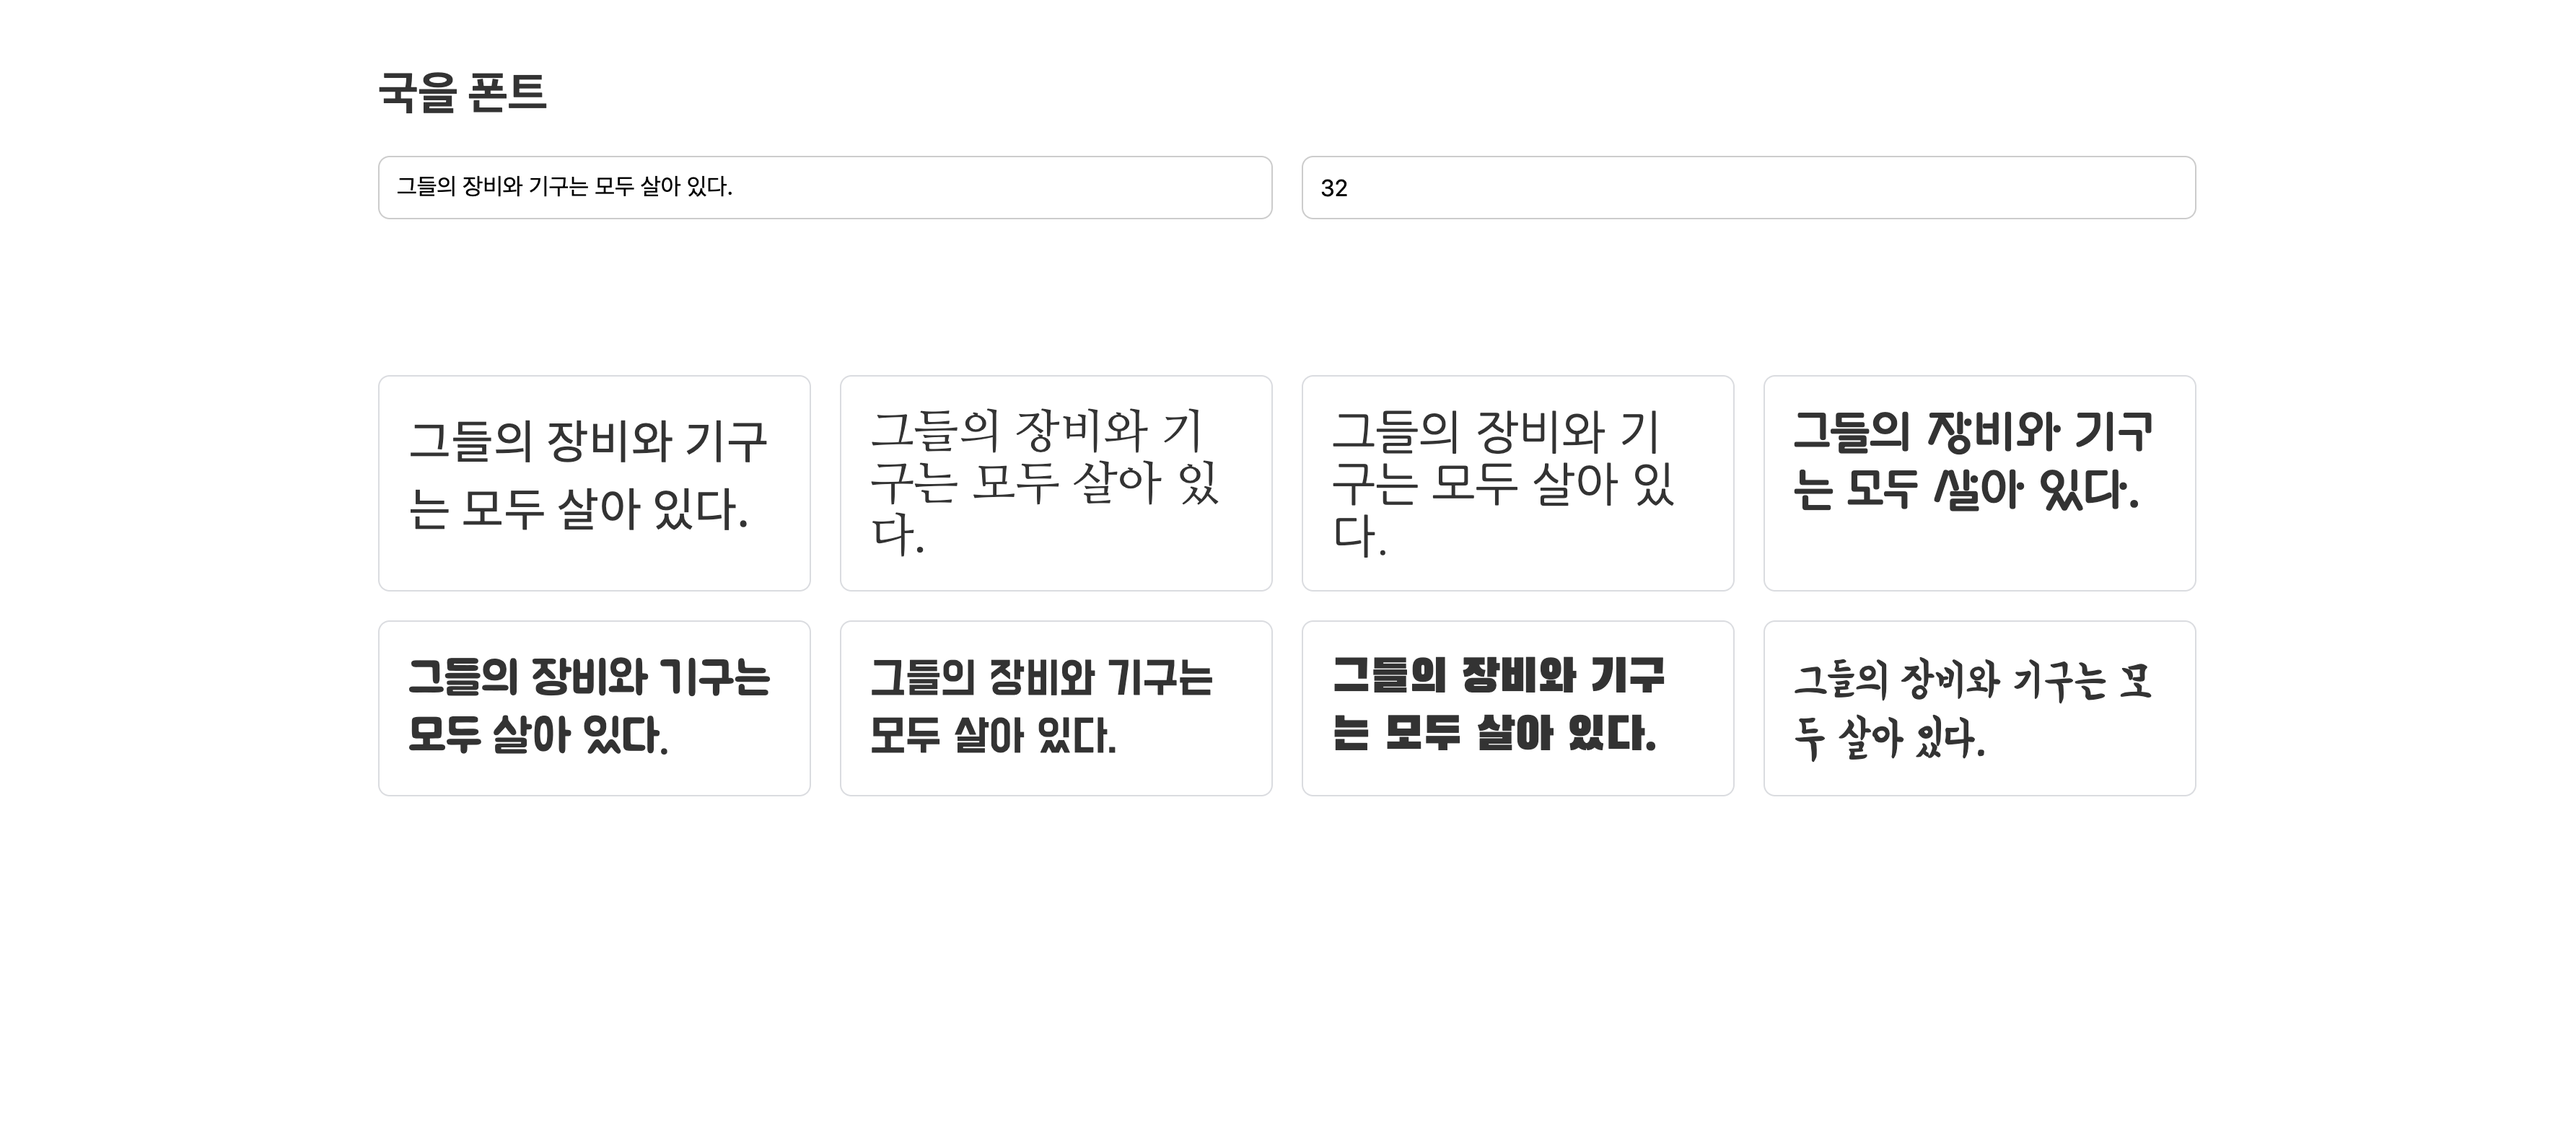
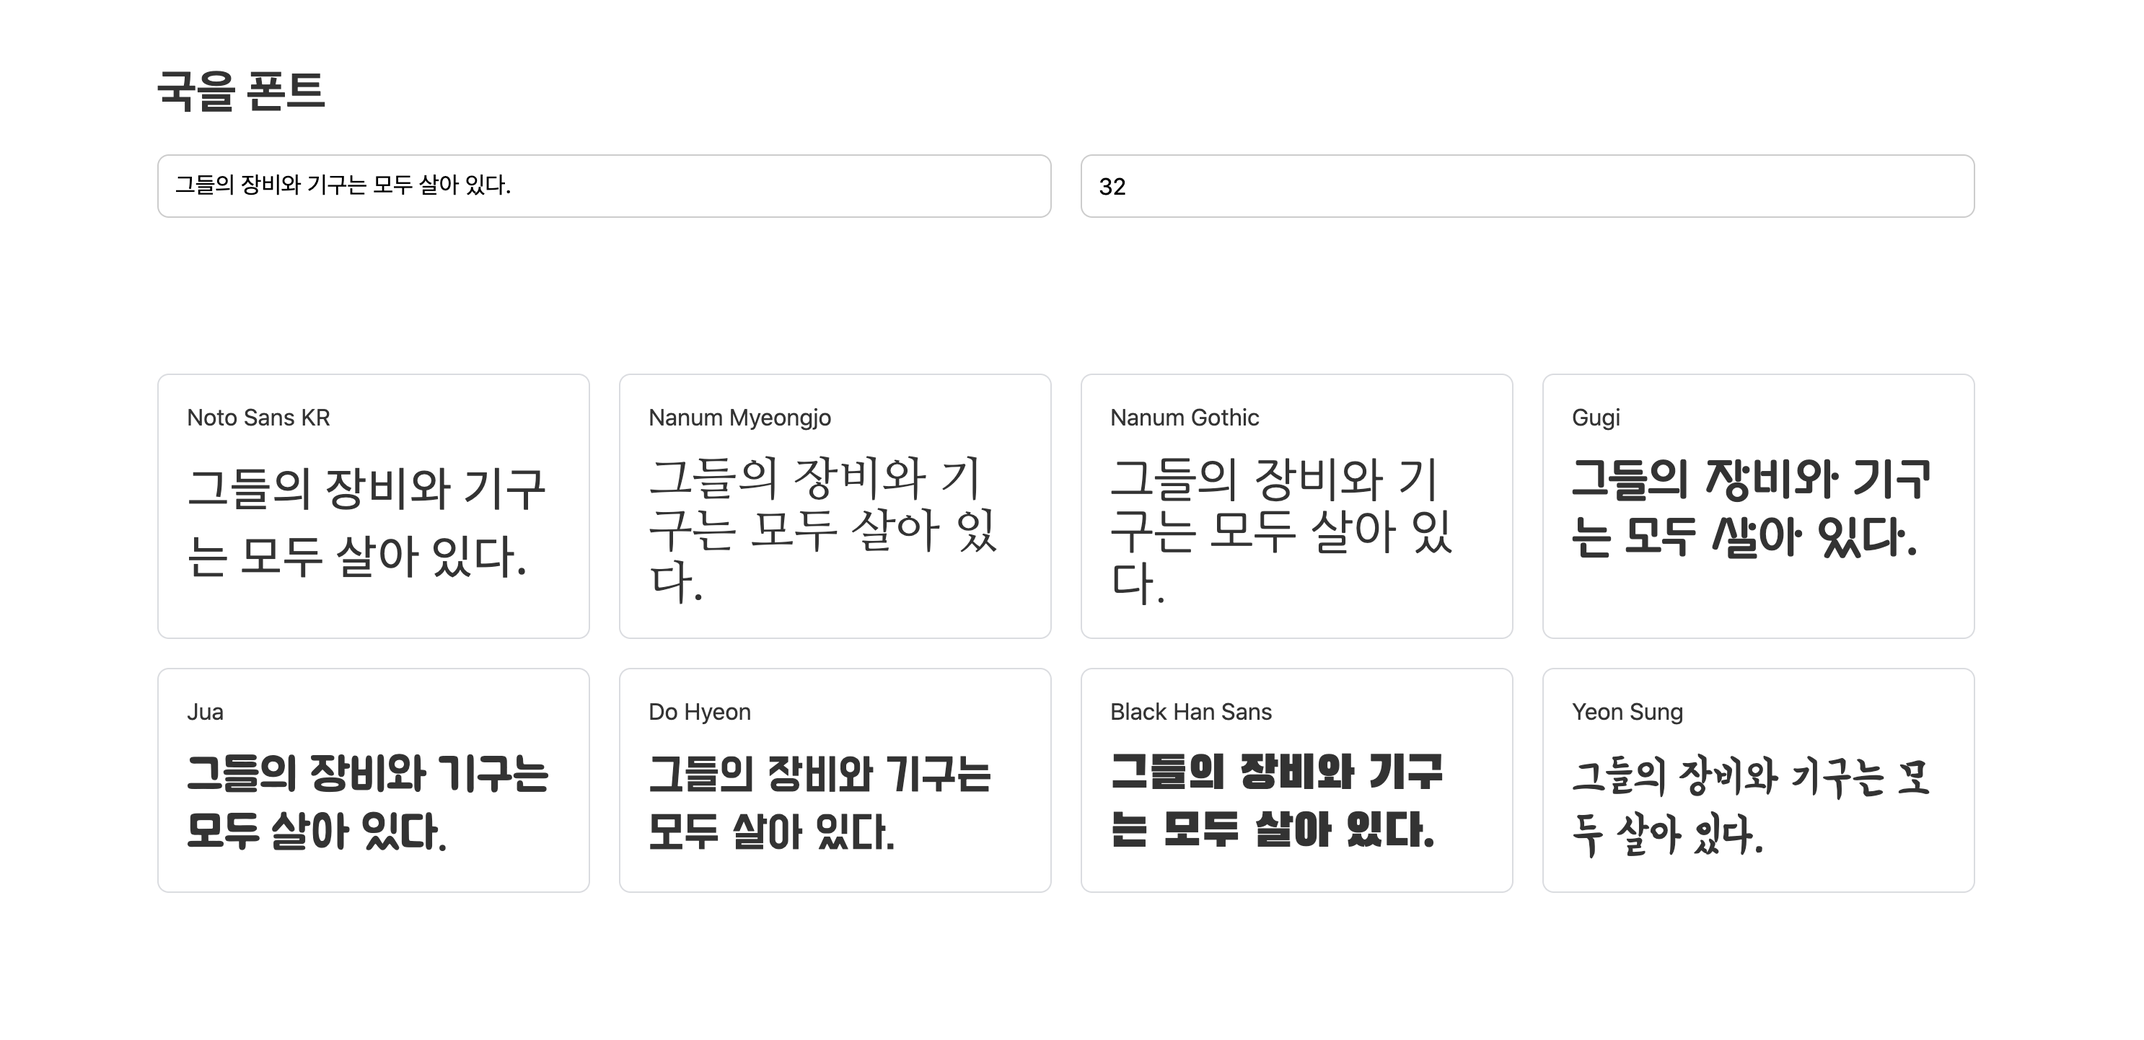
1.국을폰트 수정

diff --git a/1.google-font/src/font-box.svelte b/1.google-font/src/font-box.svelte
@@ -20,13 +20,19 @@
   .font-box:hover {
     transform: scale(1.05);
   }
+  .head {
+    margin-bottom: 16px;
+  }
   :global(.font-box:nth-child(4n)) {
     margin-right: 0;
   }
 </style>
 
-<div
-  class="font-box"
-  style="font-family: '{font}', sans-serif; font-size: {size}px">
-  {text}
+<div class="font-box">
+  <div class="head">{font}</div>
+  <div
+    class="text"
+    style="font-family: '{font}', sans-serif; font-size: {size}px">
+    {text}
+  </div>
 </div>
